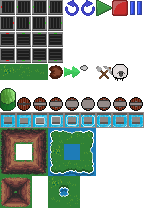
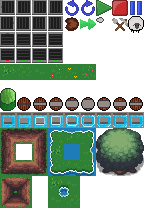
Added trees and passive flowers

diff --git a/src/WorldGenerator.cpp b/src/WorldGenerator.cpp
@@ -37,6 +37,8 @@ void WorldGenerator::generateWorld(World& t_world)
 	removeNoise(t_world);
 
 	addSlopes(t_world);
+
+	addTrees(t_world);
 }
 
 sf::Vector2i removeNoiseTile(World & t_world, int t_x, int t_y, int t_z)
@@ -257,6 +259,47 @@ void WorldGenerator::addSlopes(World& t_world)
 			if (TileType::Grass == t_world.getTileType(x, y, 0))
 			{
 				addEdgeTile(t_world, TileType::Grass, TileType::Water, x, y, 0, 48, 128);
+			}
+		}
+	}
+}
+
+void WorldGenerator::addTrees(World& t_world)
+{
+	for (int z = Globals::WORLD_HEIGHT - 1; z >= 1; z--) // Loop from the heighest level downards
+	{
+		for (int y = 1; y < Globals::WORLD_WIDTH_Y; y++) // Loop from the northmost point to the southmost
+		{
+			for (int x = 1; x < Globals::WORLD_WIDTH_X - 1; x++) // Loop from the westmost point to the eastmost
+			{
+				if (TileType::Null == t_world.getTileType(x, y, z)		// If the current tile is null
+					&& TileType::Grass == t_world.getTileType(x, y, z - 1)) // And the tile below is grass
+				{
+					// Check for space on the left and right
+					// No need for boundary checking as the loop starts from 1 and ends at WORLD_WIDTH_X - 1
+					if (TileType::Null == t_world.getTileType(x - 1, y, z)
+						&& TileType::Null == t_world.getTileType(x + 1, y, z)
+						&& TileType::Grass == t_world.getTileType(x - 1, y, z - 1)
+						&& TileType::Grass == t_world.getTileType(x + 1, y, z - 1))
+					{
+						// Check behind for space
+						if (TileType::Null == t_world.getTileType(x - 1, y - 1, z)
+							&& TileType::Null == t_world.getTileType(x, y - 1, z)
+							&& TileType::Null == t_world.getTileType(x + 1, y - 1, z)
+							&& TileType::Grass == t_world.getTileType(x - 1, y - 1, z - 1)
+							&& TileType::Grass == t_world.getTileType(x , y - 1, z - 1)
+							&& TileType::Grass == t_world.getTileType(x + 1, y - 1, z - 1))
+						{
+							// If there's space for a tree, place one 1 in 10 times
+							if (rand() % 30 == 0)
+							{
+								t_world.setTile(TileType::Tree, { 96, 128, 16, 48 }, x - 1, y, z);
+								t_world.setTile(TileType::Tree, { 112, 128, 16, 48 }, x, y, z);
+								t_world.setTile(TileType::Tree, { 128, 128, 16, 48 }, x + 1, y, z);
+							}
+						}
+					}
+				}
 			}
 		}
 	}

diff --git a/src/World.cpp b/src/World.cpp
@@ -20,7 +20,7 @@ void World::drawColumn(sf::RenderWindow& t_window, unsigned t_y, unsigned t_z)
 	{
 		if (TileType::Null != m_tiles[t_z][t_y][x].m_type) // If the tile to be rendered is not null
 		{
-			if (t_z + 1 < Globals::WORLD_HEIGHT && TileType::Null == m_tiles[t_z + 1][t_y][x].m_type) // If the tile is not covered
+			if (t_z + 1 < Globals::WORLD_HEIGHT && TileType::Grass != m_tiles[t_z + 1][t_y][x].m_type) // If the tile is not covered
 			{
 				m_tileSprite.setTextureRect(m_tiles[t_z][t_y][x].m_textureRect);
 

diff --git a/src/Game.cpp b/src/Game.cpp
@@ -100,7 +100,7 @@ void Game::render()
 	m_window.clear();
 
 	unsigned startY = (m_window.getView().getCenter().y - m_window.getView().getSize().y / 2.0f) / Globals::TILE_SIZE;
-	unsigned endY = startY + (m_window.getView().getSize().y / Globals::TILE_SIZE) + 2;
+	unsigned endY = startY + (m_window.getView().getSize().y / Globals::TILE_SIZE) + 4;
 
 	if (endY > Globals::WORLD_WIDTH_Y)
 	{

diff --git a/src/Tile.cpp b/src/Tile.cpp
@@ -9,7 +9,7 @@ void Tile::setType(TileType t_type)
 	switch (m_type)
 	{
 	case TileType::Grass:
-		leftOffset = (rand() % 3) * 16; // Pick a random grass tile from the three
+		leftOffset = (rand() % 6) * 16; // Pick a random grass tile from the six
 		m_textureRect = { leftOffset, 64, 16, 16 };
 		break;
 	case TileType::Rock:

diff --git a/include/WorldGenerator.h b/include/WorldGenerator.h
@@ -17,6 +17,8 @@ private:
 	static void removeNoise(World & t_world);
 
 	static void addSlopes(World & t_world);
+
+	static void addTrees(World& t_world);
 };
 
 #endif // !WORLD_GENERATOR_H

diff --git a/include/TileType.h b/include/TileType.h
@@ -7,7 +7,8 @@ enum class TileType
 	Grass = 1,
 	Rock = 2,
 	Slope = 3,
-	Water = 4
+	Water = 4,
+	Tree = 5
 };
 
 #endif // !TILE_TYPE_H
